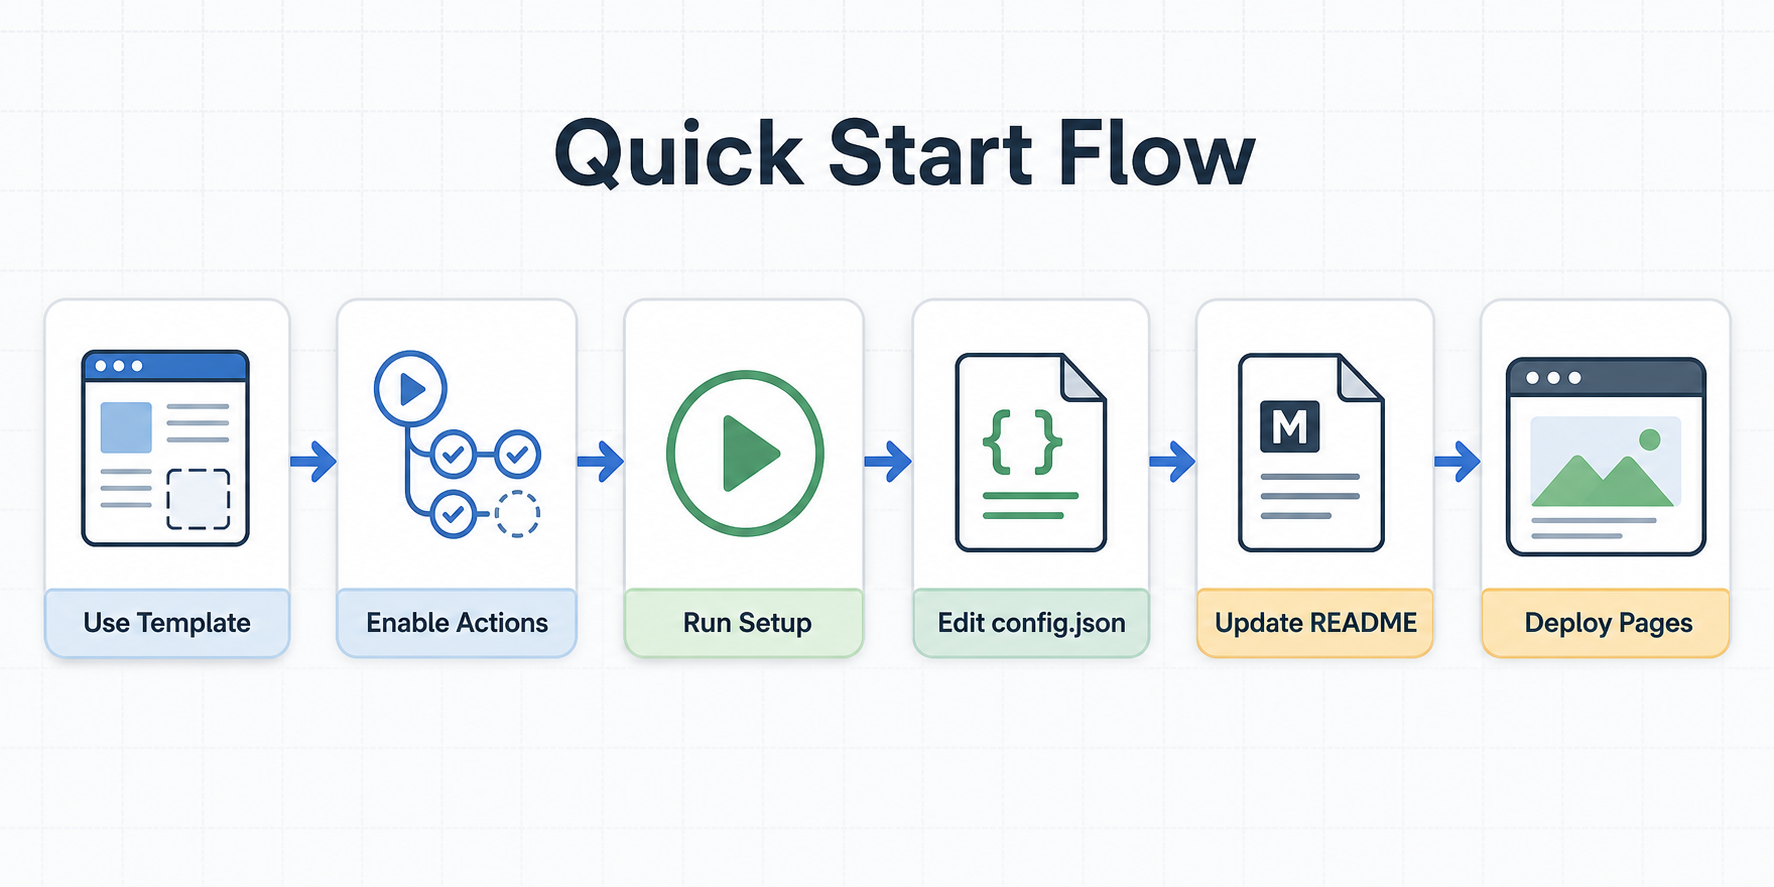
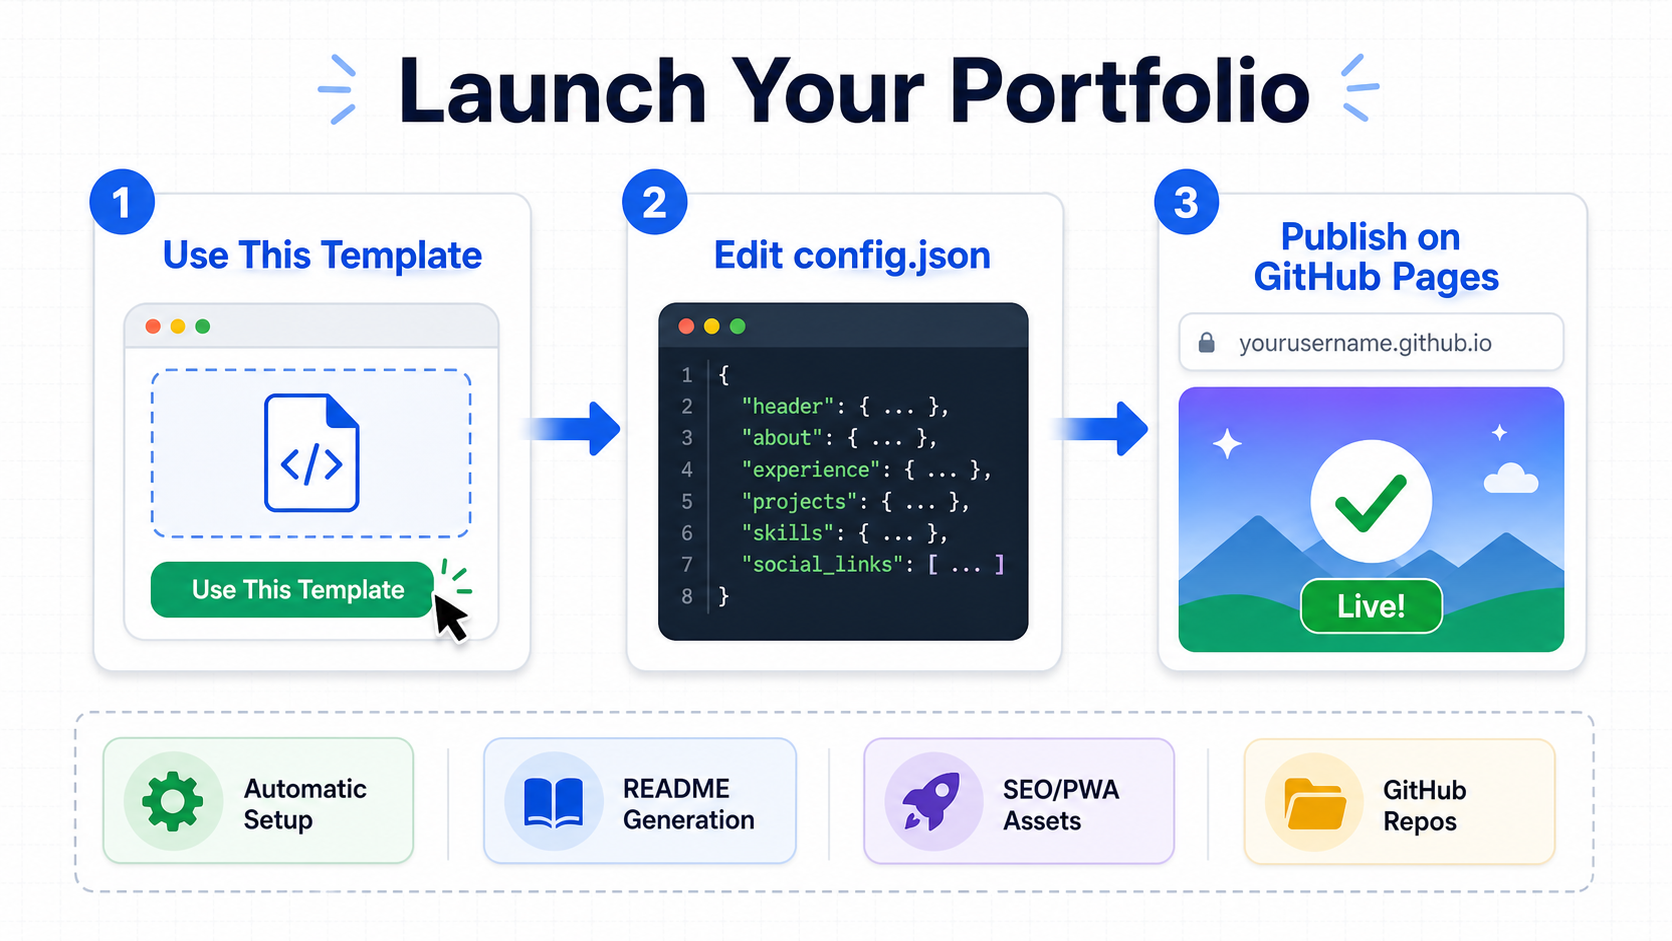
docs: replace README graphics

diff --git a/README.md b/README.md
@@ -12,7 +12,7 @@ A modern, fully configurable developer portfolio that adapts to your content. Bu
 
 ## 🚀 Quick Start
 
-![Quick start flow for using the developer portfolio template](assets/readme/quick-start-flow.png)
+![Launch your portfolio flow showing template use, config editing, and GitHub Pages publishing](assets/readme/quick-start-flow.png)
 
 1. Click "Use this template → "Create a new repository"
 2. Name your repository `yourusername.github.io` (replace `yourusername` with your actual GitHub username)
@@ -66,7 +66,7 @@ When you create a repository from this template:
 
 ## 🏗️ Template Architecture
 
-![Architecture diagram showing how config, GitHub Actions, build scripts, browser runtime, GitHub API, README generation, SEO assets, and GitHub Pages fit together](assets/readme/architecture-diagram.png)
+![Developer portfolio template architecture showing config, GitHub Actions, build scripts, static site assets, browser runtime, GitHub API, and rendered portfolio sections](assets/readme/architecture-diagram.png)
 
 The template keeps authoring simple with `config.json`, then uses GitHub Actions and local scripts to generate the production-ready pieces: bundled CSS/JS, README content, SEO files, and a static GitHub Pages site.
 